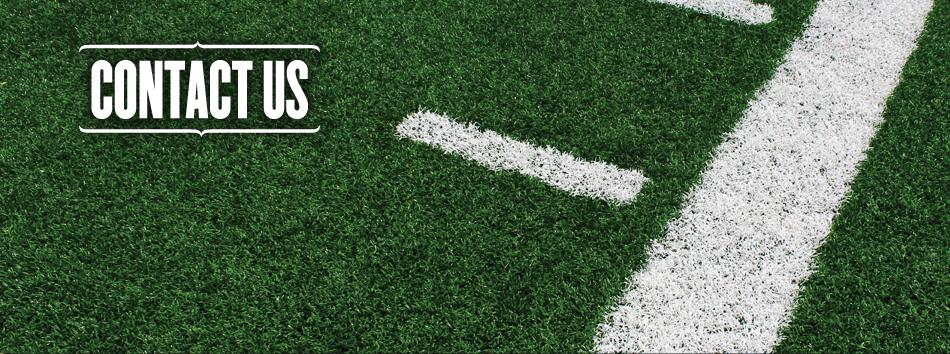
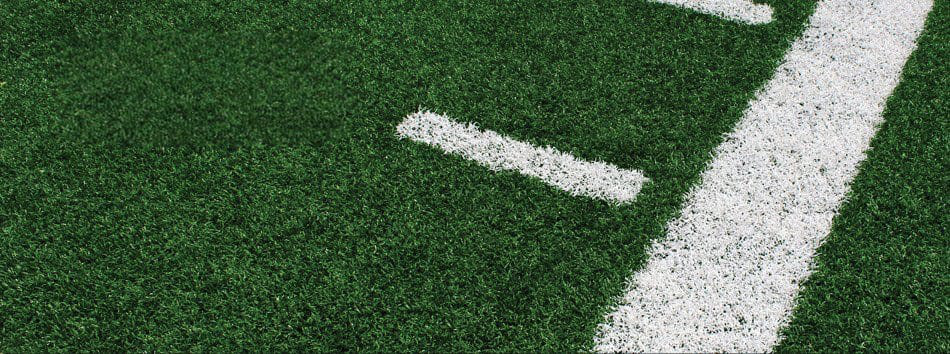
contact - home fixed !

diff --git a/frontend/src/components/LandingPages/Home/Contact/Contact.module.css b/frontend/src/components/LandingPages/Home/Contact/Contact.module.css
@@ -101,22 +101,48 @@
 
 .heading {
   font-family: 'Anton', sans-serif;
-  font-size: 56px;
+  font-size: clamp(2.5rem, 5vw, 4rem);
   font-weight: 400;
-  line-height: 100%;
+  line-height: 1.1;
   margin-bottom: 1rem;
   text-align: center;
+  text-transform: uppercase;
+  letter-spacing: 2px;
+  color: #ffffff;
+  text-shadow: 3px 3px 6px rgba(0, 0, 0, 0.8);
+}
+
+.heading:first-child {
+  font-size: clamp(3rem, 6vw, 5rem);
+  color: #00ffd5;
+  margin-bottom: 0.5rem;
+  text-shadow: 3px 3px 10px rgba(0, 0, 0, 0.9),
+               0 0 20px rgba(0, 255, 213, 0.4);
+}
+
+.heading:last-of-type {
+  font-size: clamp(2rem, 4vw, 3rem);
+  color: #ffffff;
+  margin-bottom: 2rem;
+  text-shadow: 2px 2px 8px rgba(0, 0, 0, 0.7);
 }
 
 .subheading {
-  font-family: 'Poppins', sans-serif;
-  font-size: 20px;
-  font-weight: 400;
-  line-height: 100%;
-  color: #FFFFFF;
-  margin-bottom: 2rem;
+  font-family: 'Rajdhani', sans-serif;
+  font-size: clamp(1.2rem, 2.5vw, 1.5rem);
+  font-weight: 700;
+  color: #ffffff;
+  text-transform: uppercase;
+  letter-spacing: 3px;
+  text-align: center;
+  margin-top: 1rem;
+  padding: 0.8rem 2rem;
+  border: 3px solid #00ffd5;
+  border-radius: 8px;
+  background: rgba(0, 0, 0, 0.6);
+  text-shadow: 2px 2px 4px rgba(0, 0, 0, 0.9);
+  backdrop-filter: blur(5px);
 }
-
 .form {
   display: flex;
   flex-direction: column;

diff --git a/frontend/src/components/LandingPages/Home/Contact/Contact.js b/frontend/src/components/LandingPages/Home/Contact/Contact.js
@@ -42,8 +42,9 @@ const HomeContact = () => {
         {/* Left Section */}
         <div className={styles.left}>
           <div className={styles.leftInner}>
+          <h1 className={styles.heading}>Contact Us</h1>
           <h1 className={styles.heading}>GET IN TOUCH</h1>
-          <p className={styles.subheading}>SPARDHA UNLEASHING POTENTIAL</p>
+          <p className={styles.subheading}>❇SPARDHA UNLEASHING POTENTIAL</p>
 </div>
         </div>
 
